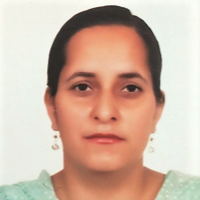
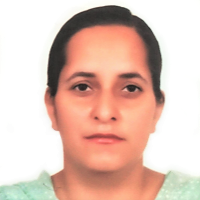
UI improvement

diff --git a/a/about.html b/a/about.html
@@ -185,7 +185,7 @@ Students who are a member can participate in every event FREE OF COST.
                                             <ul class="list-inline">
                                                 <!-- <li class="list-inline-item m-0"><a class="text-color p-1" href="#"><i class="fa fa-facebook"></i></a></li>
                                                 <li class="list-inline-item m-0"><a class="text-color p-1" href="#"><i class="fa fa-twitter"></i></a></li> -->
-                                                <li class="list-inline-item m-0"><a class="text-color p-1" href="linkedin.com/in/sumeet-kaur-sehra-44809453"><i class="fa fa-linkedin"></i></a></li>
+                                                <li class="list-inline-item m-0"><a class="text-color p-1" href="https://linkedin.com/in/sumeet-kaur-sehra-44809453"><i class="fa fa-linkedin"></i></a></li>
                                                 <li class="list-inline-item m-0"><a class="text-color p-1" href="Mailto:sumeetsehra@gndec.ac.in"><i class="fa fa-envelope"></i></a></li>
                                             </ul>
                                         </div>

diff --git a/css/main.css b/css/main.css
@@ -1301,8 +1301,6 @@ img {
     width: 240px;
     height: 280px;
     border-radius: 10px;
-    -webkit-filter: contrast(110%);
-            filter: contrast(110%);
   }
   .teachers .teachers-body .t-card .t-content .t-back {
     /* background: #03446A; */
@@ -2281,8 +2279,6 @@ img {
     width: 240px;
     height: 270px;
     border-radius: 10px;
-    -webkit-filter: contrast(110%);
-            filter: contrast(110%);
   }
   .teachers .teachers-body .t-card .t-content .t-back {
     /* background: #03446A; */

diff --git a/css/main.scss b/css/main.scss
@@ -1330,7 +1330,7 @@ img{
             width: 240px;
             height: 280px;
             border-radius: 10px;
-            filter: contrast(110%);
+            // filter: contrast(110%);
           }
           
           & .t-back {
@@ -2328,7 +2328,7 @@ img{
             width: 240px;
             height: 270px;
             border-radius: 10px;
-            filter: contrast(110%);
+            // filter: contrast(110%);
           }
           
           & .t-back {

diff --git a/index.html b/index.html
@@ -165,7 +165,7 @@
                 </div>
                 <div class="event-row-right">
                     <div class="event-img-cont">
-                        <div class="event-status">Upcoming</div>
+                        <div class="event-status">Past</div>
                         <img src="./images/Intro_to_Machine_Learning.png" alt="Intro to Machine Learning" class="image" data-enlarge-available="true">
                     </div>
                 </div>

diff --git a/a/events.html b/a/events.html
@@ -97,7 +97,7 @@
                 </div>
                 <div class="event-row-right">
                     <div class="event-img-cont">
-                        <div class="event-status">Upcoming</div>
+                        <div class="event-status">Past</div>
                         <img src="../images/Intro_to_Machine_Learning.png" alt="Intro to Machine Learning" class="image" data-enlarge-available="true">
                     </div>
                 </div>
